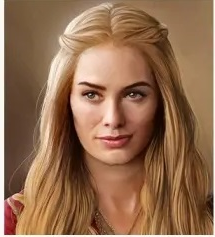
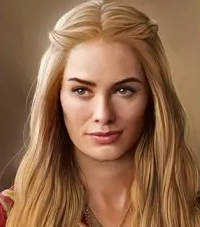
Adjust images and text underneath
Edited white spaces out of images and set max width for them and their text

diff --git a/index.html b/index.html
@@ -32,10 +32,10 @@
             <h2 class="info">Complex characters coming to life on the small screen every Sunday</h2>
             <div class="characters">
                 <div class="img-row">
-                    <img src="./img/Dany.png" alt="Daenerys Targeryan">
-                    <img src="./img/Jon.png" alt="Jon Snow">
-                    <img src="./img/Cersei.png" alt="Cersei Lannister">
-                    <img src="./img/Tyrion.png" alt="Time travelling fetus">
+                    <img src="./img/Dany.png" alt="Daenerys Targeryan" class="img-char">
+                    <img src="./img/Jon.png" alt="Jon Snow" class="img-char">
+                    <img src="./img/Cersei.png" alt="Cersei Lannister" class="img-char">
+                    <img src="./img/Tyrion.png" alt="Time travelling fetus" class="img-char">
                 </div>
                 <div class="img-row-text">
                     <p class="row-text">Daenerys is the last bastion of a brought-low centuries-old dinasty. She's willing to recover everything her family lost, even after being sold to slavery.</p>

diff --git a/style.css b/style.css
@@ -12,7 +12,7 @@ body{
     flex-direction:column;
     flex:1;
     background-color: #1f2937;
-    padding-left: 3cm;
+    padding-left: 5cm;
     padding-right: 3cm;
     padding-bottom: 2cm;
     padding-top: 1cm;
@@ -128,11 +128,33 @@ button{
     flex:1;
     display: flex;
     justify-content: center;
+    gap:1cm;
+}
+
+.img-char{
+    height:auto;
+    width: 180px;
+    border:4px;
+    border-style:solid;
+    border-color: #3882F6;
+    
+    border-radius: 25px;
 }
 
 .img-row-text{
     flex:1;
     display:flex;
+    font-family: inherit;
+    justify-content: center;
+    font-size: 16px;
+    font-weight:bold;
+    gap:1cm;
+    color:#858586;    
+}
+
+.row-text{
+    height:auto;
+    width: 180px;
 }
 
 .third-box{
